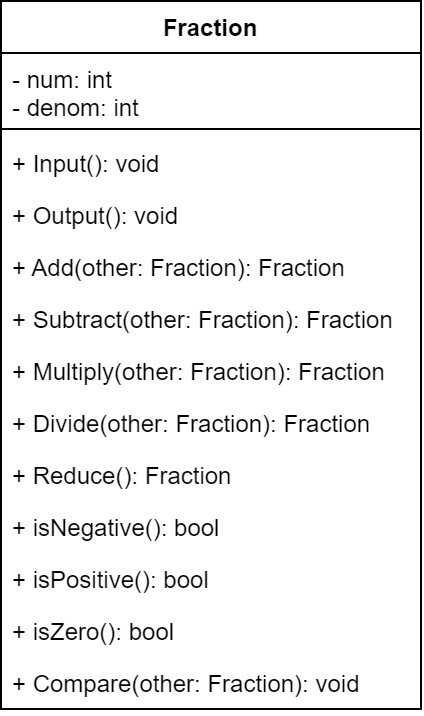
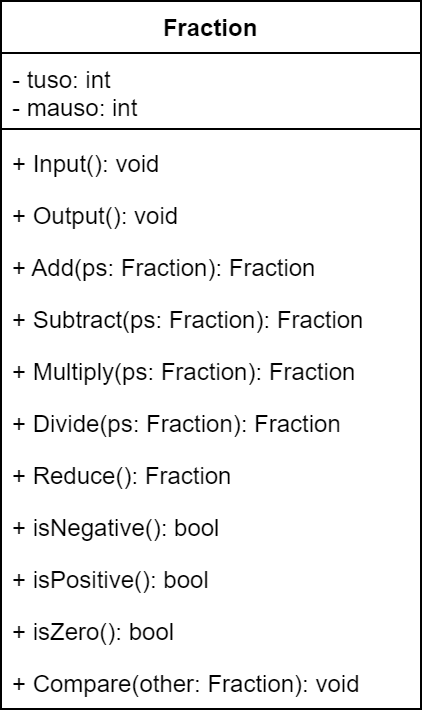
update

diff --git a/21127337/21127337_W01_04/21127337_Ex01/source.cpp b/21127337/21127337_W01_04/21127337_Ex01/source.cpp
@@ -93,19 +93,19 @@ void Fraction::Compare(Fraction ps)
 {
     Fraction tmp = Subtract(ps);
     if (tmp.tuso < 0)
-        cout << "Phan so 1 > Phan so 2\n";
+        cout << "Lon hon\n";
     else if (tmp.tuso > 0)
-        cout << "Phan so 1 < Phan so 2\n";
+        cout << "Be Hon\n";
     else
-        cout << "Phan so 1 = Phan so 2\n";
+        cout << "Bang nhau\n";
 }
 bool Fraction::isNegative()
 {
-    return tuso < 0;
+    return tuso * mauso < 0;
 }
 bool Fraction::isPositive()
 {
-    return tuso > 0;
+    return tuso * mauso > 0;
 }
 bool Fraction::isZero()
 {
